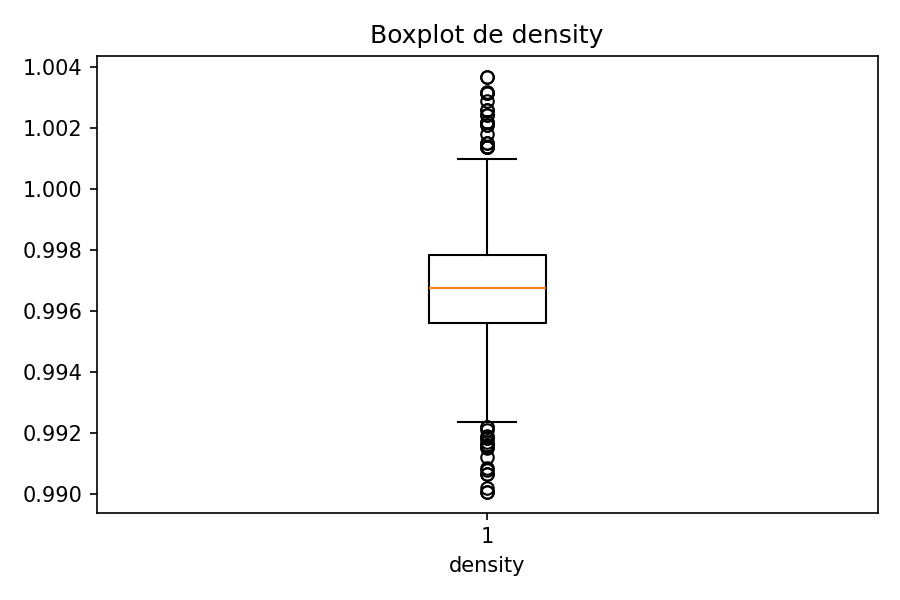
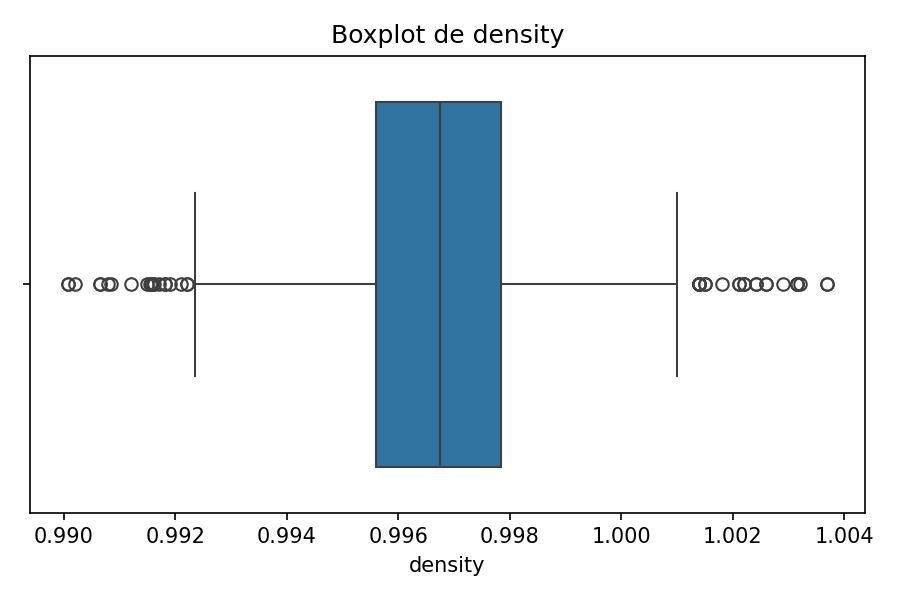
[UPDATE] Corrección informe

diff --git a/export_figures.py b/export_figures.py
@@ -11,6 +11,7 @@ matplotlib.use("Agg")
 import matplotlib.pyplot as plt
 import numpy as np
 import pandas as pd
+import seaborn as sns
 import torch
 from sklearn.metrics import (
     ConfusionMatrixDisplay,
@@ -81,9 +82,10 @@ for col in selected_features:
         plt.savefig("images/volatile_acidity_vs_quality.png", dpi=150)
     plt.close()
 
+# Misma celda que Tarea2.ipynb: sns.boxplot(x=...) (boxplot horizontal)
 for col in selected_features:
     plt.figure(figsize=(6, 4))
-    plt.boxplot(df[col], vert=True)
+    sns.boxplot(x=df[col])
     plt.title(f"Boxplot de {col}")
     plt.xlabel(col)
     plt.tight_layout()
